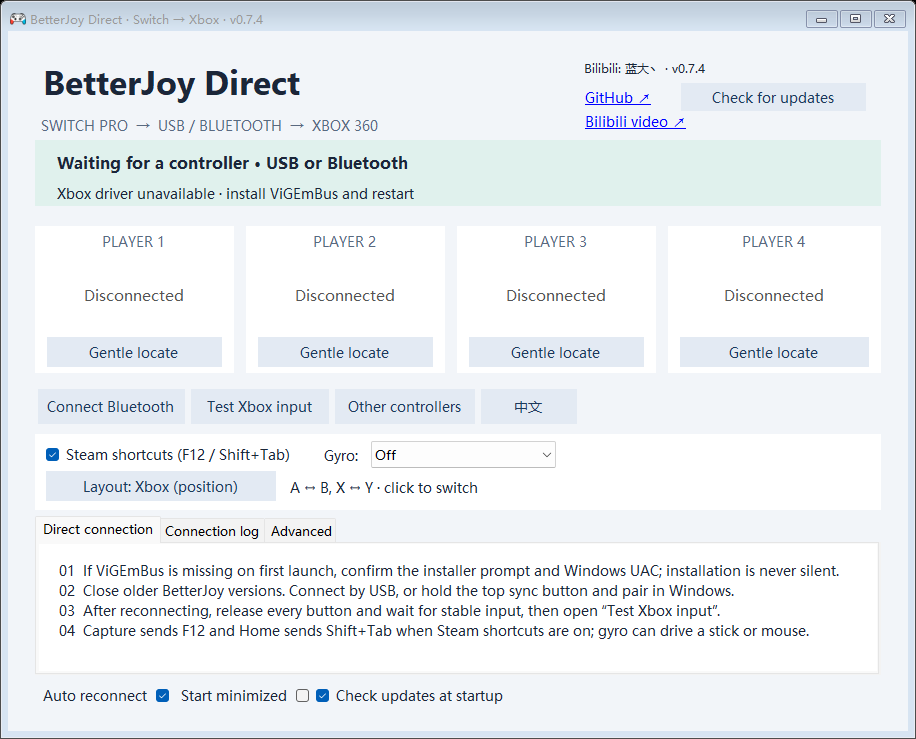
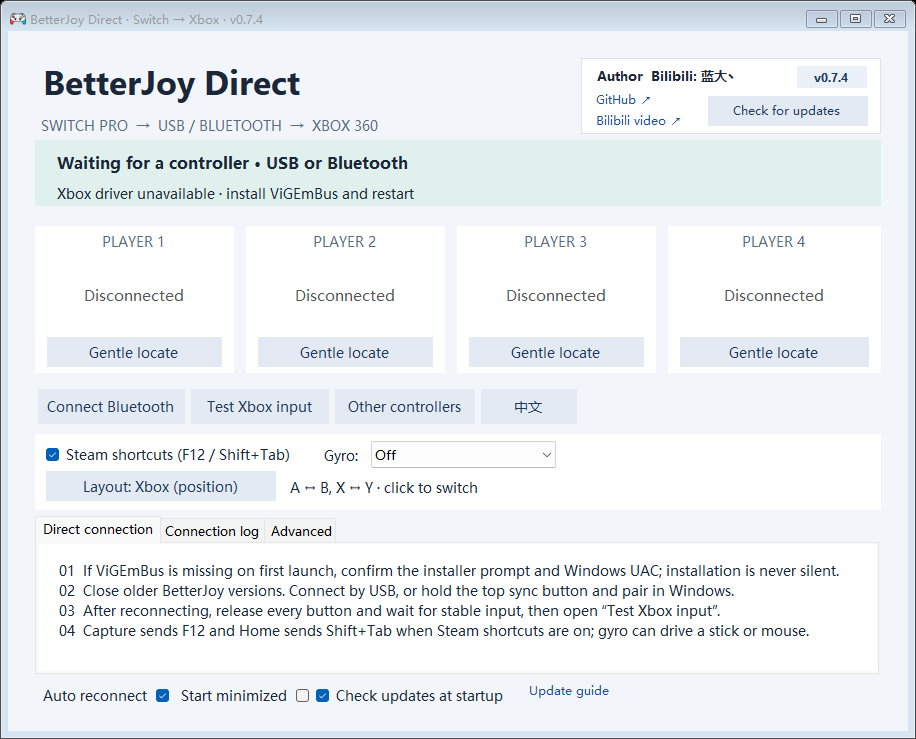
Refine author card and update guide for 0.7.4

Changed region(s): [[0.6419, 0.0622, 0.9476, 0.1867], [0.5808, 0.9337, 0.6725, 0.9648]]

diff --git a/BetterJoyForCemu/MainForm.Updates.cs b/BetterJoyForCemu/MainForm.Updates.cs
@@ -10,10 +10,12 @@ using System.Windows.Forms;
 namespace BetterJoyForCemu {
     public partial class MainForm {
         private Label projectIdentity;
+        private Label projectVersion;
         private LinkLabel projectLink;
         private LinkLabel projectVideoLink;
         private Button updateButton;
         private CheckBox checkUpdatesBox;
+        private LinkLabel updateGuideLink;
         private GitHubRelease latestRelease;
         private bool checkingUpdate;
         private bool updateCheckFailed;
@@ -21,19 +23,38 @@ namespace BetterJoyForCemu {
         private readonly CancellationTokenSource updateLifetime = new CancellationTokenSource();
 
         private Panel CreateProjectPanel() {
-            var panel = new Panel { Dock = DockStyle.Right, Width = 300 };
-            projectIdentity = new Label { AutoSize = true, Location = new Point(0, 2), Font = new Font("Microsoft YaHei UI", 9) };
-            projectLink = new LinkLabel { AutoSize = true, Text = "GitHub ↗", Location = new Point(0, 29), Tag = ProjectInfo.RepositoryUrl };
-            projectLink.LinkClicked += (s, e) => OpenProjectPage(ProjectInfo.RepositoryUrl);
-            projectVideoLink = new LinkLabel { AutoSize = true, Location = new Point(0, 53), Tag = ProjectInfo.VideoUrl };
+            var panel = new Panel { Dock = DockStyle.Right, Width = 300, BackColor = Color.White };
+            panel.Paint += (sender, args) => ControlPaint.DrawBorder(args.Graphics, panel.ClientRectangle,
+                Color.FromArgb(220, 227, 236), ButtonBorderStyle.Solid);
+            projectIdentity = new Label {
+                AutoSize = true, Location = new Point(12, 8), Font = new Font("Microsoft YaHei UI", 9.5f, FontStyle.Bold)
+            };
+            projectVersion = new Label {
+                AutoSize = false, Location = new Point(216, 8), Size = new Size(70, 22),
+                TextAlign = ContentAlignment.MiddleCenter, BackColor = Color.FromArgb(234, 240, 247),
+                ForeColor = Color.FromArgb(29, 58, 92), Font = new Font("Segoe UI", 9, FontStyle.Bold)
+            };
+            projectLink = new LinkLabel {
+                AutoSize = true, Text = "GitHub ↗", Location = new Point(12, 33), Tag = ProjectInfo.RepositoryUrl,
+                Font = new Font("Microsoft YaHei UI", 9), LinkBehavior = LinkBehavior.HoverUnderline,
+                LinkColor = Color.FromArgb(29, 80, 145)
+            };
+            projectLink.LinkClicked += (sender, args) => OpenProjectPage(ProjectInfo.RepositoryUrl);
+            projectVideoLink = new LinkLabel {
+                AutoSize = true, Location = new Point(12, 54), Tag = ProjectInfo.VideoUrl,
+                Font = new Font("Microsoft YaHei UI", 9), LinkBehavior = LinkBehavior.HoverUnderline,
+                LinkColor = Color.FromArgb(29, 80, 145)
+            };
             projectVideoLink.LinkClicked += (sender, args) => OpenProjectPage(ProjectInfo.VideoUrl);
-            updateButton = new Button { Width = 185, Height = 28, Location = new Point(100, 25) };
+            updateButton = new Button { Width = 160, Height = 30, Location = new Point(127, 38) };
             StyleButton(updateButton);
+            updateButton.Font = new Font("Microsoft YaHei UI", 9);
             updateButton.Click += async (s, e) => {
                 if (latestRelease != null && latestRelease.CompareToCurrent() > 0) ShowUpdateInstructions();
                 else await CheckUpdatesAsync(true);
             };
             panel.Controls.Add(projectIdentity);
+            panel.Controls.Add(projectVersion);
             panel.Controls.Add(projectLink);
             panel.Controls.Add(projectVideoLink);
             panel.Controls.Add(updateButton);
@@ -46,6 +67,13 @@ namespace BetterJoyForCemu {
             checkUpdatesBox = new CheckBox { AutoSize = true, Checked = enabled };
             checkUpdatesBox.CheckedChanged += (s, e) => SaveAppSetting("CheckForUpdates", checkUpdatesBox.Checked ? "true" : "false");
             footer.Controls.Add(checkUpdatesBox);
+            updateGuideLink = new LinkLabel {
+                AutoSize = true, Margin = new Padding(12, 1, 0, 0), Font = new Font("Microsoft YaHei UI", 9),
+                LinkBehavior = LinkBehavior.HoverUnderline, LinkColor = Color.FromArgb(29, 80, 145)
+            };
+            updateGuideLink.LinkClicked += (sender, args) => MessageBox.Show(this, uiText["UpdateInstructions"],
+                uiText["UpdateGuide"], MessageBoxButtons.OK, MessageBoxIcon.Information);
+            footer.Controls.Add(updateGuideLink);
             Shown += async (s, e) => {
                 if (!PreviewOnly && !ConnectionDiagnostics.IsRunning && checkUpdatesBox.Checked)
                     await CheckUpdatesAsync(false);
@@ -59,8 +87,10 @@ namespace BetterJoyForCemu {
         }
 
         private void RefreshProjectInfo() {
-            projectIdentity.Text = String.Format(uiText["ProjectIdentity"], ProjectInfo.Author, ProjectInfo.Version);
+            projectIdentity.Text = String.Format(uiText["ProjectIdentity"], ProjectInfo.Author);
+            projectVersion.Text = "v" + ProjectInfo.Version;
             projectVideoLink.Text = uiText["VideoLink"];
+            updateGuideLink.Text = uiText["UpdateGuide"];
             checkUpdatesBox.Text = uiText["CheckUpdatesAtStartup"];
             updateButton.Enabled = !checkingUpdate;
             updateButton.Text = checkingUpdate ? uiText["UpdateChecking"]

diff --git a/tests/FeatureRegressionTests.cs b/tests/FeatureRegressionTests.cs
@@ -151,19 +151,21 @@ class FeatureRegressionTests {
                 Fail("Layout button did not restore and persist Xbox position mapping");
 
             var identity = (Label)typeof(MainForm).GetField("projectIdentity", BindingFlags.Instance | BindingFlags.NonPublic).GetValue(form);
+            var versionLabel = (Label)typeof(MainForm).GetField("projectVersion", BindingFlags.Instance | BindingFlags.NonPublic).GetValue(form);
             var projectLink = (LinkLabel)typeof(MainForm).GetField("projectLink", BindingFlags.Instance | BindingFlags.NonPublic).GetValue(form);
             var videoLink = (LinkLabel)typeof(MainForm).GetField("projectVideoLink", BindingFlags.Instance | BindingFlags.NonPublic).GetValue(form);
             var updateButton = (Button)typeof(MainForm).GetField("updateButton", BindingFlags.Instance | BindingFlags.NonPublic).GetValue(form);
             var autoUpdates = (CheckBox)typeof(MainForm).GetField("checkUpdatesBox", BindingFlags.Instance | BindingFlags.NonPublic).GetValue(form);
+            var guideLink = (LinkLabel)typeof(MainForm).GetField("updateGuideLink", BindingFlags.Instance | BindingFlags.NonPublic).GetValue(form);
             var updateClient = typeof(MainForm).GetField("updateClient", BindingFlags.Instance | BindingFlags.NonPublic);
             var releaseField = typeof(MainForm).GetField("latestRelease", BindingFlags.Instance | BindingFlags.NonPublic);
             var failedField = typeof(MainForm).GetField("updateCheckFailed", BindingFlags.Instance | BindingFlags.NonPublic);
             var busyField = typeof(MainForm).GetField("checkingUpdate", BindingFlags.Instance | BindingFlags.NonPublic);
             var refreshUpdates = typeof(MainForm).GetMethod("RefreshProjectInfo", BindingFlags.Instance | BindingFlags.NonPublic);
-            if (!identity.Text.Contains(ProjectInfo.Author) || !identity.Text.Contains(ProjectInfo.Version) ||
+            if (!identity.Text.Contains(ProjectInfo.Author) || !identity.Text.Contains("Author") || !versionLabel.Text.Contains(ProjectInfo.Version) ||
                 !form.Text.Contains(ProjectInfo.Version) || (string)projectLink.Tag != ProjectInfo.RepositoryUrl || (string)videoLink.Tag != ProjectInfo.VideoUrl ||
-                videoLink.Top < projectLink.Bottom || videoLink.Text != english["VideoLink"])
-                Fail("Author, version, or project hyperlink is missing or inconsistent");
+                videoLink.Top < projectLink.Bottom || videoLink.Text != english["VideoLink"] || guideLink.Text != english["UpdateGuide"])
+                Fail("Author/version/link mismatch: " + identity.Text + " / " + versionLabel.Text + " / GitHub=" + projectLink.Bounds + " / video=" + videoLink.Bounds + " / " + videoLink.Text);
             if (updateClient.GetValue(form) != null)
                 Fail("Preview UI initiated an update request");
             if (!autoUpdates.Checked) Fail("Packaged update-check preference is not enabled");
@@ -185,10 +187,10 @@ class FeatureRegressionTests {
                 Fail("Missing release asset is not explained");
             button.PerformClick();
             Application.DoEvents();
-            foreach (Control control in new Control[] { identity, projectLink, videoLink, updateButton, autoUpdates })
+            foreach (Control control in new Control[] { identity, versionLabel, projectLink, videoLink, updateButton, autoUpdates, guideLink })
                 if (control.Right > control.Parent.ClientSize.Width || control.Bottom > control.Parent.ClientSize.Height)
                     Fail("Project/update controls are clipped in the compact window: " + control.Text);
-            if (identity.PreferredSize.Width > identity.Parent.ClientSize.Width)
+            if (identity.Left + identity.PreferredSize.Width + 8 > versionLabel.Left)
                 Fail("Author/version identity text does not fit");
             releaseField.SetValue(form, null);
             failedField.SetValue(form, true);

diff --git a/BetterJoyForCemu/UiTextCatalog.cs b/BetterJoyForCemu/UiTextCatalog.cs
@@ -15,7 +15,7 @@ namespace BetterJoyForCemu {
             "DriverRestartRequired", "DriverInstallRetryFailed",
             "ButtonLayoutXbox", "ButtonLayoutNintendo", "ButtonLayoutCustom",
             "ButtonLayoutHintXbox", "ButtonLayoutHintNintendo", "ButtonLayoutHintCustom",
-            "ProjectIdentity", "VideoLink", "CheckUpdatesAtStartup", "CheckUpdates", "UpdateChecking", "UpdateAvailable", "UpdateRetry", "UpdateTrayHint", "UpdateCurrent", "UpdateLocalNewer", "UpdateFailed", "UpdateVersions", "UpdateInstructions", "UpdateAssetMissing", "UpdateOpenPrompt", "OpenPageFailed"
+            "ProjectIdentity", "VideoLink", "UpdateGuide", "CheckUpdatesAtStartup", "CheckUpdates", "UpdateChecking", "UpdateAvailable", "UpdateRetry", "UpdateTrayHint", "UpdateCurrent", "UpdateLocalNewer", "UpdateFailed", "UpdateVersions", "UpdateInstructions", "UpdateAssetMissing", "UpdateOpenPrompt", "OpenPageFailed"
         };
 
         private readonly IDictionary<string, string> values;
@@ -51,8 +51,9 @@ namespace BetterJoyForCemu {
 
         private static IDictionary<string, string> Chinese() {
             return new Dictionary<string, string>(StringComparer.Ordinal) {
-                { "ProjectIdentity", "B站：{0} · v{1}" },
+                { "ProjectIdentity", "作者  B站：{0}" },
                 { "VideoLink", "B站视频 ↗" },
+                { "UpdateGuide", "更新说明" },
                 { "CheckUpdatesAtStartup", "启动时检查更新" },
                 { "CheckUpdates", "检查更新" },
                 { "UpdateChecking", "正在检查…" },
@@ -116,8 +117,9 @@ namespace BetterJoyForCemu {
 
         private static IDictionary<string, string> English() {
             return new Dictionary<string, string>(StringComparer.Ordinal) {
-                { "ProjectIdentity", "Bilibili: {0} · v{1}" },
+                { "ProjectIdentity", "Author  Bilibili: {0}" },
                 { "VideoLink", "Bilibili video ↗" },
+                { "UpdateGuide", "Update guide" },
                 { "CheckUpdatesAtStartup", "Check updates at startup" },
                 { "CheckUpdates", "Check for updates" },
                 { "UpdateChecking", "Checking…" },

diff --git a/README.md b/README.md
@@ -90,7 +90,7 @@ Xbox/XInput has no standard native gyro field. Applications with DSU/Cemuhook su
 
 ## Updates and project information
 
-The top-right area shows the author, **Bilibili: 蓝大丶**, and the current version. The GitHub repository link has a [Bilibili video](https://www.bilibili.com/video/BV1XUaY6hE5w) link beneath it. **Check for updates** reads this repository’s stable GitHub Release, highlights a newer version, and explains how to update. It does not replace running files or install drivers. The current application version is `0.7.4`.
+The top-right area shows the author, **Bilibili: 蓝大丶**, and the current version. The GitHub repository link has a [Bilibili video](https://www.bilibili.com/video/BV1XUaY6hE5w) link beneath it. **Check for updates** reads this repository’s stable GitHub Release, highlights a newer version, and explains how to update. It does not replace running files or install drivers. The current application version is `0.7.4`. The bottom **Update guide** link opens the instructions at any time, even when no newer release is available.
 
 **Check updates at startup** is enabled by default and can be turned off at the bottom of the window. Normal startup checks once, with no periodic polling; preview and diagnostic capture modes skip the check. Timeouts or GitHub rate limits leave a retry state instead of falsely reporting “up to date,” and do not interrupt controller input. Only public release information is requested: no account or token is needed, and controller data and logs are not uploaded.
 
@@ -138,7 +138,7 @@ BetterJoy Direct only launches the bundled driver installer after explicit confi
 | Area | Result |
 |---|---|
 | Input regression | **405 checks passed** — report bounds, all 256 report IDs, USB transport and handshake responses, timestamps, reconnect gating, calibration, deadzones, Steam shortcut edges, gyro direction, Guide suppression, live two-Pro layouts, concurrent rumble, and diagnostic timing |
-| UI and behavior | **60 bilingual strings complete; behavior checks passed** — driver onboarding, runtime settings, resizing, and tray restore |
+| UI and behavior | **61 bilingual strings complete; behavior checks passed** — driver onboarding, runtime settings, resizing, and tray restore |
 | GitHub update checks | **54 checks passed**, plus a live public API query — semantic versions, preview ordering, draft rejection, bounded responses, cancellation, and timeout |
 | Virtual Xbox lifecycle | **3 consecutive cycles passed** — create, move, neutralize, and disconnect |
 | Physical hardware | **Bluetooth:** 704 XInput samples with disconnect/reconnect; **USB:** stable `IMU_DATA_OK`, 2,346 packets in 10 seconds, neutral gate ready, and virtual XInput slot 0 |

diff --git a/docs/FEATURES.zh-CN.md b/docs/FEATURES.zh-CN.md
@@ -135,7 +135,7 @@ Valve 官方资料：[Steam Input 支持的设备](https://partner.steamgames.co
 
 ## 检查更新与作者信息
 
-窗口右上角显示作者 **B站：蓝大丶**、当前版本和 GitHub 仓库入口；GitHub 下方提供[视频入口](https://www.bilibili.com/video/BV1XUaY6hE5w)。“检查更新”读取本仓库的 GitHub 正式 Release，显示可用新版并提供更新步骤；不会自动替换程序或安装驱动。当前程序版本为 `0.7.4`。
+窗口右上角显示作者 **B站：蓝大丶**、当前版本和 GitHub 仓库入口；GitHub 下方提供[视频入口](https://www.bilibili.com/video/BV1XUaY6hE5w)。“检查更新”读取本仓库的 GitHub 正式 Release，显示可用新版并提供更新步骤；不会自动替换程序或安装驱动。当前程序版本为 `0.7.4`。底部“更新说明”可随时查看操作步骤，无需等待发现新版。
 
 “启动时检查更新”默认开启，可在底部关闭并记住选择。每次正常启动最多自动检查一次，不定时轮询；预览与诊断采集模式不联网检查。请求超时或 GitHub 限流时显示可重试状态，不会把失败误报为“已是最新版”，也不影响手柄输入。请求仅查询公开发布信息，不需要账号或令牌，不上传手柄数据或日志。
 
@@ -181,7 +181,7 @@ Valve 官方资料：[Steam Input 支持的设备](https://partner.steamgames.co
 ## 验证与边界
 
 - 输入自动回归：405 项，覆盖 HID 报文边界、Steam 快捷键、陀螺仪方向，并确认旧键鼠发射入口已经删除。
-- UI/功能回归：60 组双语文案，以及驱动安装引导、语言切换与保存、Steam/陀螺仪快捷设置、旧映射入口移除、窗口缩放和托盘恢复顺序。
+- UI/功能回归：61 组双语文案，以及驱动安装引导、语言切换与保存、Steam/陀螺仪快捷设置、旧映射入口移除、窗口缩放和托盘恢复顺序。
 - GitHub 更新回归：54 项，含语义版本、正式/预发布区分、限流/异常、取消和 8 秒超时；公开 API 实际请求通过。
 - 虚拟 Xbox 输出：连续 3 轮创建、移动、归零、断开。
 - 实体蓝牙记录：704 个 XInput 样本、1 次物理断开与成功重连；最终四轴归零，无输出错误。

diff --git a/CHANGELOG.md b/CHANGELOG.md
@@ -8,7 +8,8 @@
 
 ### 界面
 
-- 作者显示改为“B站：蓝大丶”，在 GitHub 链接下增加视频入口；支持中英文界面。
+- 作者卡片明确显示“作者”和“B站：蓝大丶”，版本号独立显示，GitHub 下方提供视频入口；支持中英文界面。
+- 底部增加“更新说明”入口，无需发现新版本即可查看更新步骤。
 
 ### 更新说明
 
